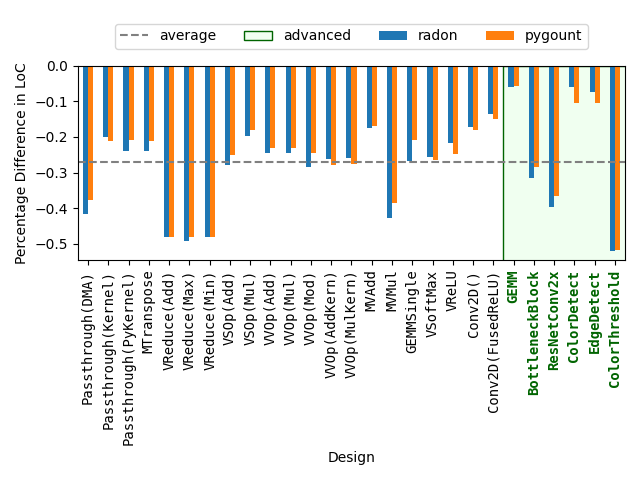
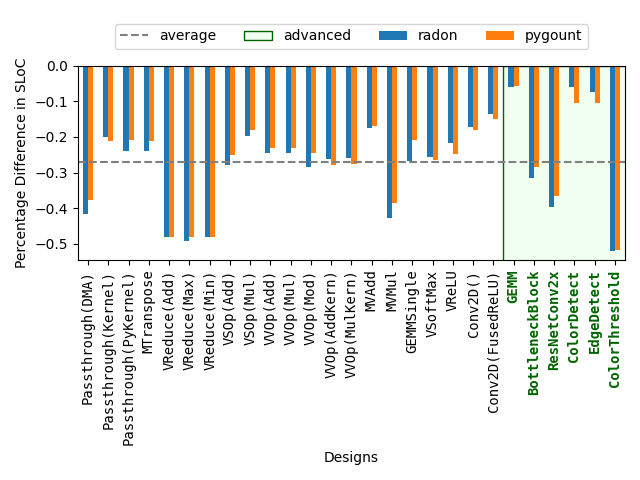
Small plotting fixes for sloc

Changed region(s): [[0.0, 0.125, 0.0625, 0.5625], [0.5, 0.9375, 0.5938, 0.9688]]

diff --git a/programming_examples/analysis/plot_loc.py b/programming_examples/analysis/plot_loc.py
@@ -109,8 +109,8 @@ def plot_loc(input_file: str, output_file_percentage: str, output_file_absolute:
         loc="lower center",
         ncol=4,
     )
-    plt.xlabel("Design")
-    plt.ylabel("Percentage Difference in LoC")
+    plt.xlabel("Designs")
+    plt.ylabel("Percentage Difference in SLoC")
     plt.tight_layout()
     plt.savefig(output_file_percentage)
 
@@ -158,8 +158,8 @@ def plot_loc(input_file: str, output_file_percentage: str, output_file_absolute:
         loc="lower center",
         ncol=4,
     )
-    plt.xlabel("Design")
-    plt.ylabel("Absolute Difference in LoC")
+    plt.xlabel("Designs")
+    plt.ylabel("Absolute Difference in SLoC")
     plt.tight_layout()
     plt.savefig(output_file_absolute)
 
